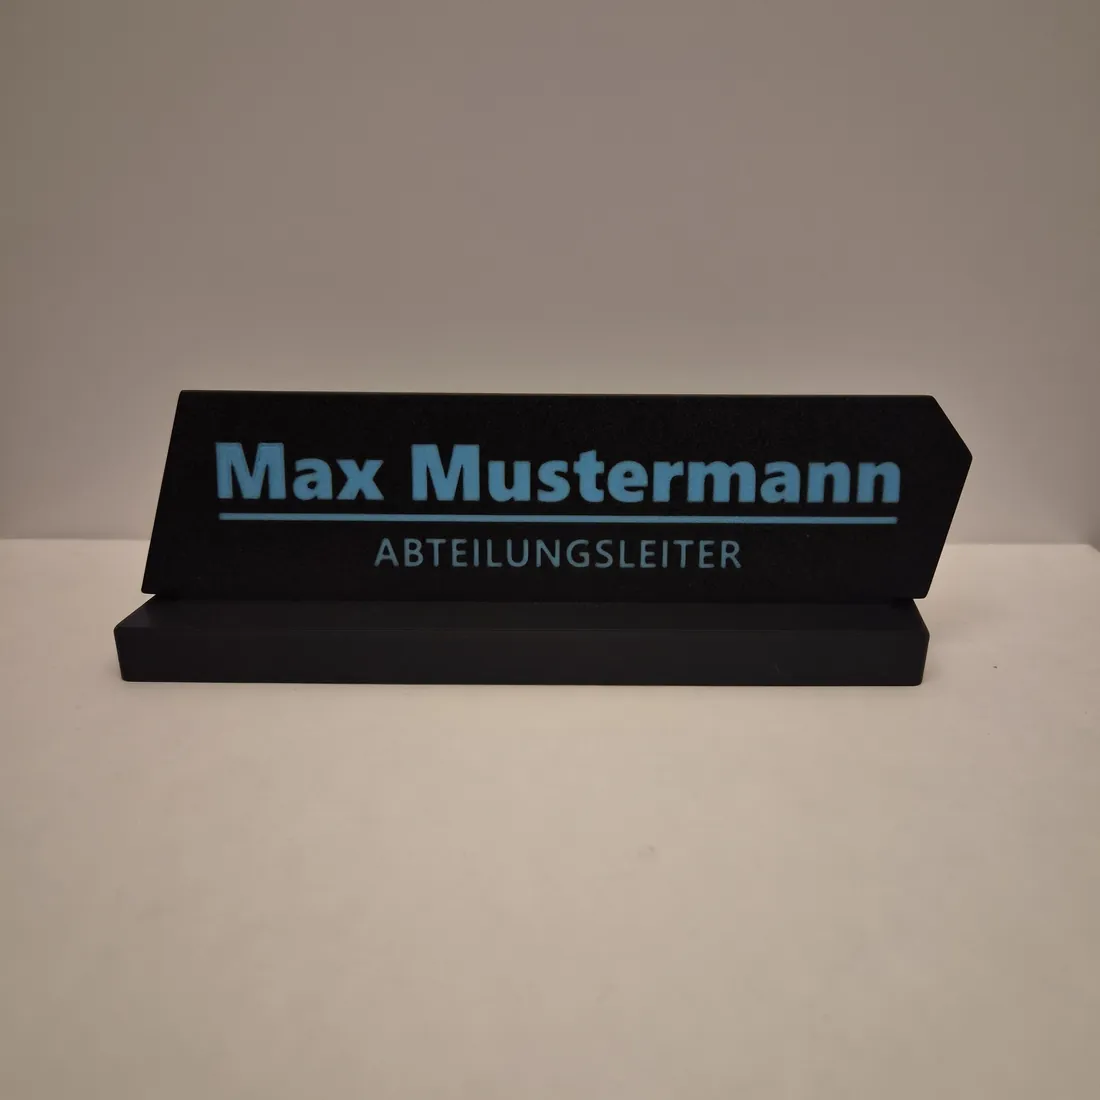
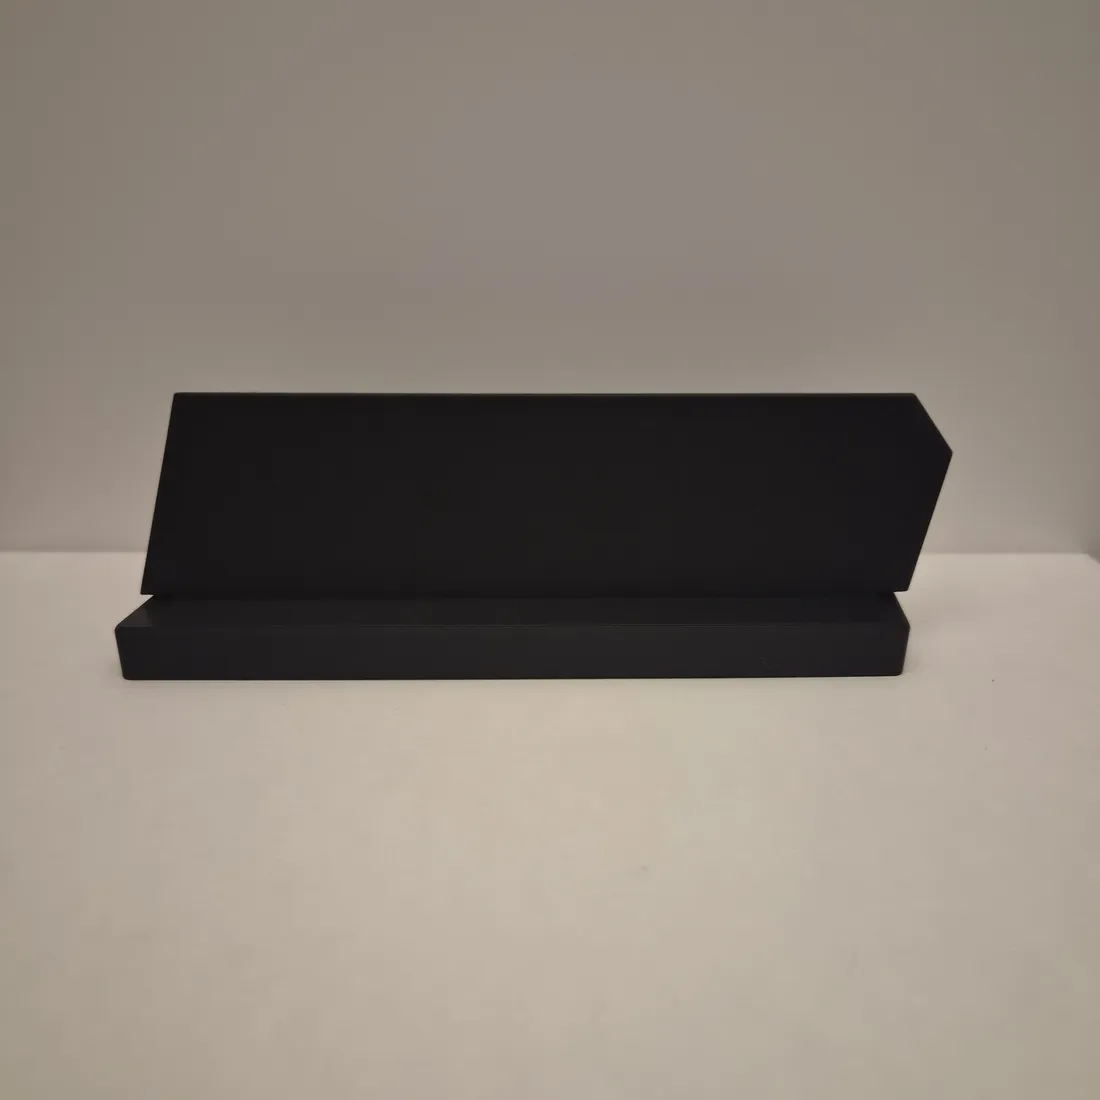
Shop: Namensschild mit Blanko-Foto und Live-Text (Perspektive), Mittwoch-Maske korrigiert
Blanko-Foto ist Foto 1, Schildfarbe wird immer umgefaerbt, Name/Titel in gewaehlter Schrift und Farbe
per Homographie (matrix3d) auf die Platte gelegt. Masken fuer die weisse Mittwoch-Scheibe
(Einzelfoto + Set) vervollstaendigt.

Claude-Session: https://claude.ai/code/session_01NrH9dGZGs97rj3EW7q6tPZ

diff --git a/components/shop/FotoGalerie.tsx b/components/shop/FotoGalerie.tsx
@@ -4,6 +4,7 @@ import type { Form } from "@/lib/shop/produkte";
 import { TAG_FOTO, UMFAERBEN, type Foto } from "@/lib/shop/fotos";
 import { bereiten, umfaerben, zielFarben, type UmfaerbModus, type Vorbereitet } from "@/lib/shop/umfaerben";
 import { LiveProductImage, useVorschauWerte } from "./Vorschau";
+import NamensschildAufdruck from "./NamensschildAufdruck";
 
 const GROESSE = 720; // Arbeitsauflösung des Umfärbens (Anzeige ca. 480 CSS-Pixel)
 const cache = new Map<string, Promise<Vorbereitet | null>>();
@@ -36,18 +37,19 @@ function vorbereiten(src: string, modus: UmfaerbModus): Promise<Vorbereitet | nu
 // Ändert er den Wunschtext, springt die Anzeige auf die Live-Vorschau (Text lässt sich nicht ins Foto setzen).
 export default function FotoGalerie({ slug, form, grundfarbe, fotos, name }: { slug: string; form: Form; grundfarbe: string; fotos: Foto[]; name: string }) {
   const w = useVorschauWerte();
-  const modus = UMFAERBEN[slug];
   const [idx, setIdx] = useState(0); // -1 = Live-Vorschau
+  // Namensschild: Foto 1 = Blanko-Schild (ganzes Objekt in der Schildfarbe, Text kommt als Aufdruck), die übrigen = Beispielfotos mit Schrift
+  const modus: UmfaerbModus | undefined = slug === "namensschild" ? (idx === 0 ? "farbe" : "schild") : UMFAERBEN[slug];
   const canvas = useRef<HTMLCanvasElement>(null);
   const [gefaerbt, setGefaerbt] = useState(false); // Canvas zeigt gerade das umgefärbte Foto
 
   // Der Standardtext (z. B. "Eddie Pixldrop") zählt nicht: erst eine Änderung durch den Kunden schaltet um.
   const startText = useRef<string | undefined>(undefined);
   useEffect(() => {
-    if (!w.text) return;
+    if (!w.text || slug === "namensschild") return;
     if (startText.current === undefined) { startText.current = w.text; return; }
     if (w.text !== startText.current) setIdx(-1);
-  }, [w.text]);
+  }, [w.text, slug]);
 
   // Einzel-Untersetzer: gewählter Wochentag zeigt das passende Foto.
   useEffect(() => {
@@ -58,11 +60,13 @@ export default function FotoGalerie({ slug, form, grundfarbe, fotos, name }: { s
 
   // Farbwahl: Das Foto zeigt zuerst das echte Stück; erst wenn der Kunde die Farbe ändert, wird umgefärbt.
   const farbKey = modus === "kombi" ? (w.farben ?? []).join() : modus === "schild" ? `${w.farbe ?? ""}|${w.textfarbe ?? ""}` : (w.farbe ?? "");
-  const startFarbe = useRef<string | undefined>(undefined);
+  const startFarbe = useRef<Record<string, string>>({});
   useEffect(() => {
-    if (startFarbe.current === undefined && farbKey.replace(/\|/g, "")) startFarbe.current = farbKey;
-  }, [farbKey]);
-  const aktiv = !!modus && startFarbe.current !== undefined && farbKey !== startFarbe.current;
+    if (modus && startFarbe.current[modus] === undefined && farbKey.replace(/\|/g, "")) startFarbe.current[modus] = farbKey;
+  }, [farbKey, modus]);
+  // Namensschild: Foto 1 ist das Blanko-Schild, auf das Farbe und Text live gelegt werden (immer umgefärbt, mit Aufdruck).
+  const mitAufdruck = slug === "namensschild" && idx === 0;
+  const aktiv = !!modus && (mitAufdruck || (startFarbe.current[modus] !== undefined && farbKey !== startFarbe.current[modus]));
 
   const foto = idx >= 0 ? fotos[idx] : null;
   const fotoSrc = foto?.src;
@@ -96,6 +100,7 @@ export default function FotoGalerie({ slug, form, grundfarbe, fotos, name }: { s
           {aktiv && (
             <canvas ref={canvas} className="shop-foto" width={GROESSE} height={GROESSE} role="img" aria-label={`${foto.alt}, in deiner gewählten Farbe`} style={zeigeCanvas ? undefined : { visibility: "hidden" }} />
           )}
+          {mitAufdruck && <NamensschildAufdruck w={w} />}
         </div>
       ) : (
         <LiveProductImage form={form} grundfarbe={grundfarbe} />
@@ -107,11 +112,13 @@ export default function FotoGalerie({ slug, form, grundfarbe, fotos, name }: { s
             <img src={f.src} alt="" width={96} height={96} loading="lazy" decoding="async" />
           </button>
         ))}
-        <button type="button" className="shop-fotoleiste-live" aria-pressed={idx === -1} onClick={() => setIdx(-1)}>Deine Wahl<br />Live</button>
+        {slug !== "namensschild" && <button type="button" className="shop-fotoleiste-live" aria-pressed={idx === -1} onClick={() => setIdx(-1)}>Deine Wahl<br />Live</button>}
       </div>
       {foto && (
         <p className="shop-fotohinweis">
-          {zeigeCanvas ? "Foto in deiner Farbe (bearbeitet). Echte Farben können am Bildschirm leicht abweichen." : "Foto: Beispielstück. Ändere die Farbe, dann zeigt das Bild deine Wahl."}
+          {mitAufdruck
+            ? "Vorschau: Dein Text und deine Farben auf dem Foto des Blanko-Schilds (bearbeitet). Echte Farben können am Bildschirm leicht abweichen."
+            : zeigeCanvas ? "Foto in deiner Farbe (bearbeitet). Echte Farben können am Bildschirm leicht abweichen." : "Foto: Beispielstück. Ändere die Farbe, dann zeigt das Bild deine Wahl."}
         </p>
       )}
     </div>

diff --git a/components/shop/NamensschildAufdruck.tsx b/components/shop/NamensschildAufdruck.tsx
@@ -1,0 +1,50 @@
+"use client";
+import { useLayoutEffect, useMemo, useRef, useState } from "react";
+import NamensschildSvg from "./NamensschildSvg";
+import { homographie, matrix3d, type Punkt } from "@/lib/shop/homographie";
+import { NS_UMRISS } from "@/lib/shop/namensschild";
+import type { VorschauWerte } from "./Vorschau";
+import { textfarbeFuer } from "./ProductImage";
+
+// Ecken der Platte im Blanko-Foto (public/shop/fotos/namensschild/1.webp, Koordinaten im 1100-px-Bild),
+// ausgemessen: links oben, rechts oben, links unten, rechts unten (dort sitzt der Ständer).
+const FOTO: Punkt[] = [[174, 394.6], [915, 395], [141.5, 593], [909, 591]];
+// Dieselben Ecken im Schildmaß (mm, y nach unten wie in NamensschildSvg): Umriss [[0,0],[12,48],[186,48],[196.5,34],[188,0]]
+const SCHILD: Punkt[] = [[NS_UMRISS[1][0], 0], [NS_UMRISS[2][0], 0], [NS_UMRISS[0][0], 48], [NS_UMRISS[4][0], 48]];
+const H = homographie(SCHILD, FOTO);
+const BREITE = 196.5, HOEHE = 48;
+
+/** Legt Name und Titel des Kunden (Schrift, Farbe, Format wie in der Live-Vorschau) perspektivisch auf das Blanko-Foto. */
+export default function NamensschildAufdruck({ w }: { w: VorschauWerte }) {
+  const box = useRef<HTMLDivElement>(null);
+  const [breite, setBreite] = useState(0);
+  useLayoutEffect(() => {
+    const el = box.current;
+    if (!el) return;
+    const messen = () => setBreite(el.getBoundingClientRect().width);
+    messen();
+    const ro = new ResizeObserver(messen);
+    ro.observe(el);
+    return () => ro.disconnect();
+  }, []);
+  const [name, titel] = useMemo(() => (w.text ?? "Eddie Pixldrop\nContent Creator").split("\n"), [w.text]);
+  const fm = w.format?.fmt;
+  const schrift = w.textfarbe ?? textfarbeFuer(w.farbe ?? "#1c1c1c");
+  return (
+    <div ref={box} aria-hidden="true" style={{ position: "absolute", inset: 0, pointerEvents: "none", overflow: "hidden" }}>
+      {breite > 0 && (
+        <div style={{ position: "absolute", left: 0, top: 0, width: BREITE, height: HOEHE, transformOrigin: "0 0", transform: matrix3d(H, breite / 1100) }}>
+          <svg viewBox={`0 0 ${BREITE} ${HOEHE}`} width={BREITE} height={HOEHE} style={{ overflow: "visible", display: "block" }}>
+            <NamensschildSvg
+              nurSchrift
+              name={name ?? ""} titel={titel ?? ""} schriftId={w.format?.schriftId ?? "montserrat"} family={w.family ?? "sans-serif"}
+              platte={w.farbe ?? "#1c1c1c"} schrift={schrift} breiteEm={w.format?.breite ?? 0.6}
+              fmtName={{ fett: fm?.fett[0] === true, kursiv: fm?.kursiv[0] === true }}
+              fmtTitel={{ fett: fm?.fett[1] === true, kursiv: fm?.kursiv[1] === true }}
+            />
+          </svg>
+        </div>
+      )}
+    </div>
+  );
+}

diff --git a/components/shop/NamensschildSvg.tsx b/components/shop/NamensschildSvg.tsx
@@ -13,10 +13,11 @@ const Y = (y: number) => 48 - y; // Druckkoordinate (y nach oben) -> SVG (y nach
 export interface ZeileFormat { fett: boolean; kursiv: boolean }
 
 export default function NamensschildSvg({
-  name, titel, schriftId, family, platte, schrift, fmtName, fmtTitel, breiteEm,
+  name, titel, schriftId, family, platte, schrift, fmtName, fmtTitel, breiteEm, nurSchrift = false,
 }: {
   name: string; titel: string; schriftId: string; family: string; platte: string; schrift: string;
   fmtName: ZeileFormat; fmtTitel: ZeileFormat; /** Schätzwert Zeichenbreite (em) bis die Messung vorliegt */ breiteEm: number;
+  /** Nur Balken und Text in Schildkoordinaten (mm, y nach unten) ohne Platte und Ständer: für die Foto-Vorschau */ nurSchrift?: boolean;
 }) {
   const kappe = kappeJeEm(schriftId);
   const refName = useRef<SVGTextElement>(null);
@@ -57,16 +58,22 @@ export default function NamensschildSvg({
   const s = 94 / 196.5;
   const hoehe = (48 + NS_STAENDER.hoehe) * s;
   const umriss = NS_UMRISS.map(([x, y]) => `${x},${Y(y)}`).join(" ");
-  return (
-    <g transform={`translate(3 ${(100 - hoehe) / 2}) scale(${s})`}>
-      <rect x={NS_STAENDER.x} y={Y(0)} width={NS_STAENDER.breite} height={NS_STAENDER.hoehe} rx="2" fill={platte} stroke="rgba(0,0,0,.3)" strokeWidth="0.8" />
-      <polygon points={umriss} fill={platte} stroke="rgba(0,0,0,.3)" strokeWidth="0.8" strokeLinejoin="round" />
+  const inhalt = (
+    <>
       <rect x={NS.zoneL} y={Y(NS.balkenOben)} width={NS_BREITE} height={NS.balkenOben - NS.balkenUnten} fill={schrift} />
       <text x={NS.mitte} y={Y(NS.nameGrundlinie)} textAnchor="middle" fontSize={kName / kappe} fill={schrift} style={stil(fmtName)}>{name}</text>
       <text x={NS.mitte} y={Y(NS.titelGrundlinie)} textAnchor="middle" fontSize={kTitel / kappe} fill={schrift} style={stil(fmtTitel)}>{titel}</text>
       {/* unsichtbare Messtexte (feste Größe), liefern die echte Textbreite der gewählten Schrift */}
       <text ref={refName} x="0" y="0" fontSize={MESS_SIZE} visibility="hidden" style={stil(fmtName)}>{name}</text>
       <text ref={refTitel} x="0" y="0" fontSize={MESS_SIZE} visibility="hidden" style={stil(fmtTitel)}>{titel}</text>
+    </>
+  );
+  if (nurSchrift) return <g>{inhalt}</g>;
+  return (
+    <g transform={`translate(3 ${(100 - hoehe) / 2}) scale(${s})`}>
+      <rect x={NS_STAENDER.x} y={Y(0)} width={NS_STAENDER.breite} height={NS_STAENDER.hoehe} rx="2" fill={platte} stroke="rgba(0,0,0,.3)" strokeWidth="0.8" />
+      <polygon points={umriss} fill={platte} stroke="rgba(0,0,0,.3)" strokeWidth="0.8" strokeLinejoin="round" />
+      {inhalt}
     </g>
   );
 }

diff --git a/lib/shop/homographie.ts b/lib/shop/homographie.ts
@@ -1,0 +1,40 @@
+// Perspektivische Abbildung (Homographie) für das Namensschild-Foto: Text in Schild-Koordinaten (mm)
+// wird per CSS matrix3d auf die Platte im Foto gelegt.
+export type Punkt = [number, number];
+
+/** 3x3-Matrix (zeilenweise, h33 = 1), die die vier Punkte src auf dst abbildet. */
+export function homographie(src: Punkt[], dst: Punkt[]): number[] {
+  if (src.length !== 4 || dst.length !== 4) throw new Error("vier Punktpaare nötig");
+  // 8 Gleichungen, 8 Unbekannte (h11..h32)
+  const A: number[][] = [];
+  for (let i = 0; i < 4; i++) {
+    const [x, y] = src[i], [u, v] = dst[i];
+    A.push([x, y, 1, 0, 0, 0, -u * x, -u * y, u]);
+    A.push([0, 0, 0, x, y, 1, -v * x, -v * y, v]);
+  }
+  for (let c = 0; c < 8; c++) {
+    let p = c;
+    for (let r = c + 1; r < 8; r++) if (Math.abs(A[r][c]) > Math.abs(A[p][c])) p = r;
+    if (Math.abs(A[p][c]) < 1e-12) throw new Error("Punkte entartet");
+    [A[c], A[p]] = [A[p], A[c]];
+    for (let r = 0; r < 8; r++) {
+      if (r === c) continue;
+      const f = A[r][c] / A[c][c];
+      for (let k = c; k < 9; k++) A[r][k] -= f * A[c][k];
+    }
+  }
+  const h = A.map((row, i) => row[8] / row[i]);
+  return [...h, 1];
+}
+
+export function abbilden(H: number[], [x, y]: Punkt): Punkt {
+  const w = H[6] * x + H[7] * y + H[8];
+  return [(H[0] * x + H[1] * y + H[2]) / w, (H[3] * x + H[4] * y + H[5]) / w];
+}
+
+/** CSS-matrix3d (spaltenweise) für H, zusätzlich um den Faktor s skaliert (Foto 1100 px -> Anzeigegröße). */
+export function matrix3d(H: number[], s: number): string {
+  const [a, b, c, d, e, f, g, h, i] = H;
+  const m = [a * s, d * s, 0, g, b * s, e * s, 0, h, 0, 0, 1, 0, c * s, f * s, 0, i];
+  return `matrix3d(${m.map((v) => +v.toFixed(8)).join(",")})`;
+}

diff --git a/tests/shop/homographie.test.ts b/tests/shop/homographie.test.ts
@@ -1,0 +1,21 @@
+import test from "node:test";
+import assert from "node:assert/strict";
+import { abbilden, homographie, matrix3d, type Punkt } from "@/lib/shop/homographie";
+
+test("Homographie bildet die vier Eckpunkte exakt ab", () => {
+  const src: Punkt[] = [[12, 0], [186, 0], [0, 48], [188, 48]];
+  const dst: Punkt[] = [[174, 394.6], [915, 395], [141.5, 593], [909, 591]];
+  const H = homographie(src, dst);
+  src.forEach((p, i) => {
+    const [x, y] = abbilden(H, p);
+    assert.ok(Math.abs(x - dst[i][0]) < 1e-6 && Math.abs(y - dst[i][1]) < 1e-6, `Punkt ${i}`);
+  });
+});
+
+test("Identitaet bleibt Identitaet, matrix3d skaliert nur x/y", () => {
+  const q: Punkt[] = [[0, 0], [10, 0], [0, 10], [10, 10]];
+  const H = homographie(q, q);
+  const [x, y] = abbilden(H, [3, 7]);
+  assert.ok(Math.abs(x - 3) < 1e-9 && Math.abs(y - 7) < 1e-9);
+  assert.equal(matrix3d(H, 0.5).startsWith("matrix3d(0.5,0,0,0,0,0.5,0,0,0,0,1,0,0,0,0,1"), true);
+});

diff --git a/lib/shop/fotos.ts b/lib/shop/fotos.ts
@@ -24,10 +24,11 @@ const ALT: Record<string, string[]> = {
     "Stiftebecher mit Henkel, Schrägansicht",
     "Stiftebecher von oben",
   ],
+  // Foto 1 = Blanko-Schild von vorn: Farbe und Text deiner Wahl werden live daraufgelegt (components/shop/NamensschildFoto.tsx)
   "namensschild": [
+    "Namensschild von vorn mit deinem Text und deiner Farbe (Vorschau)",
     "Namensschild mit Ständer, Beispieltext",
     "Namensschild von schräg vorn, Beispieltext",
-    "Namensschild ohne Schrift (Blanko)",
     "Namensschild von hinten",
   ],
   "geister-set": [
